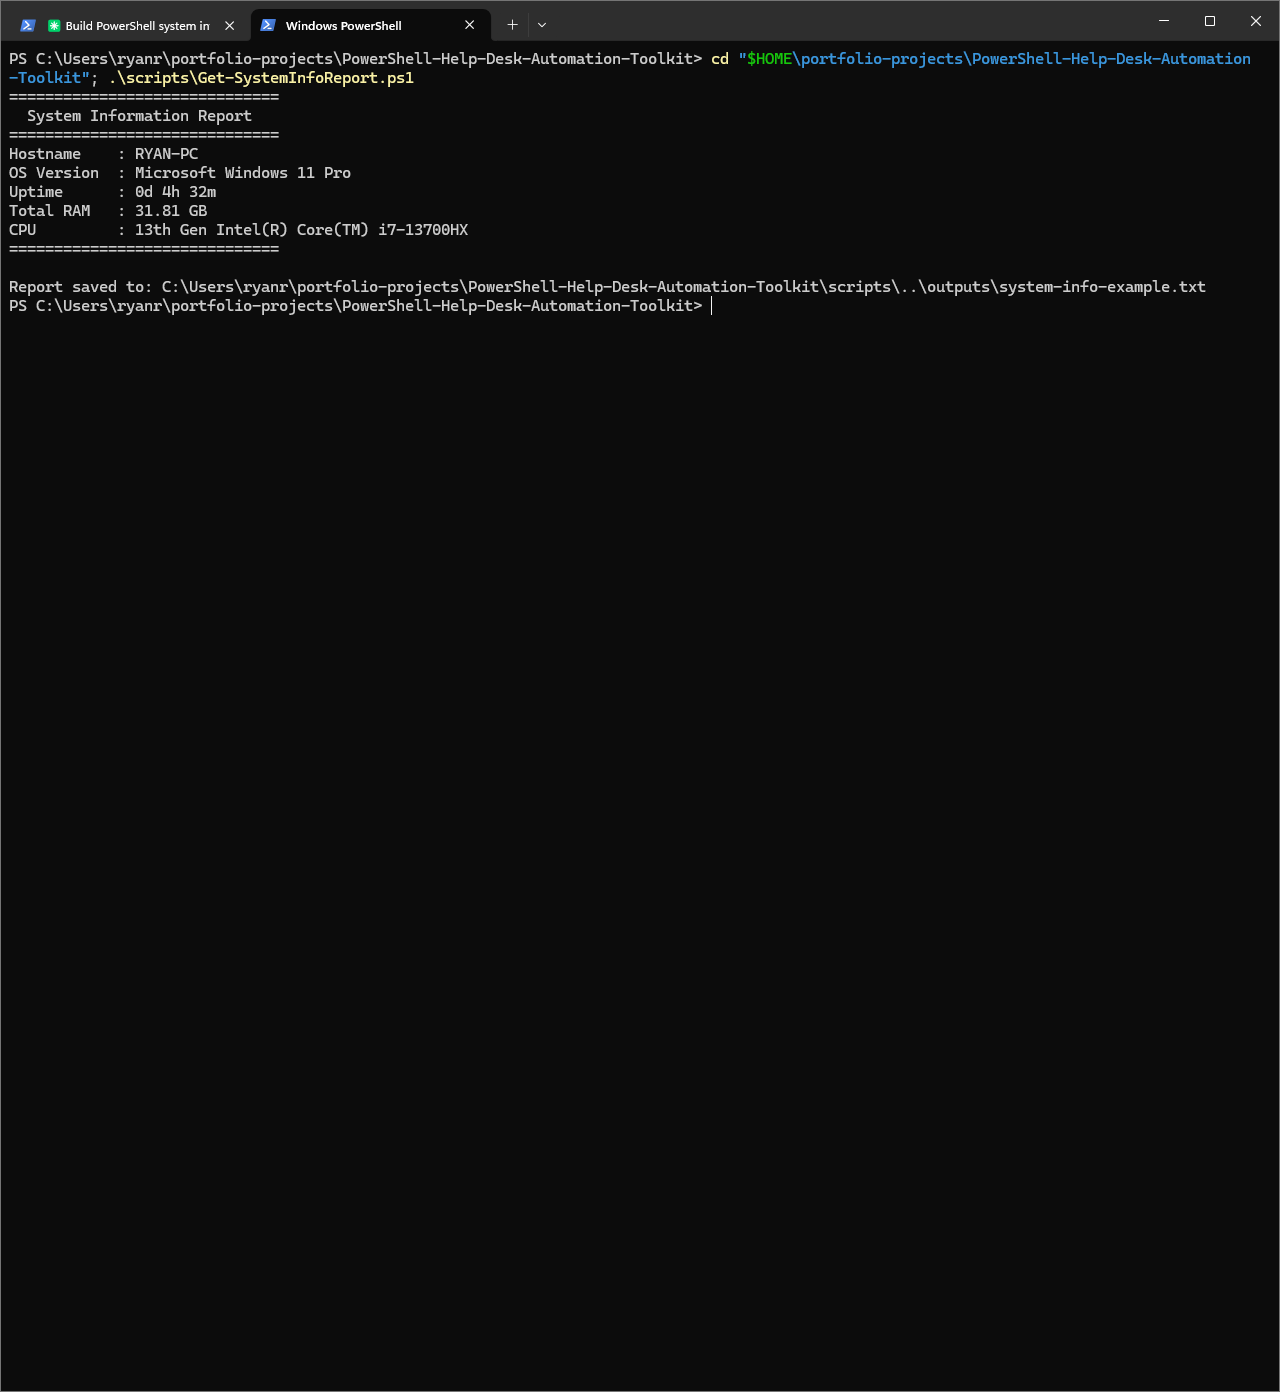
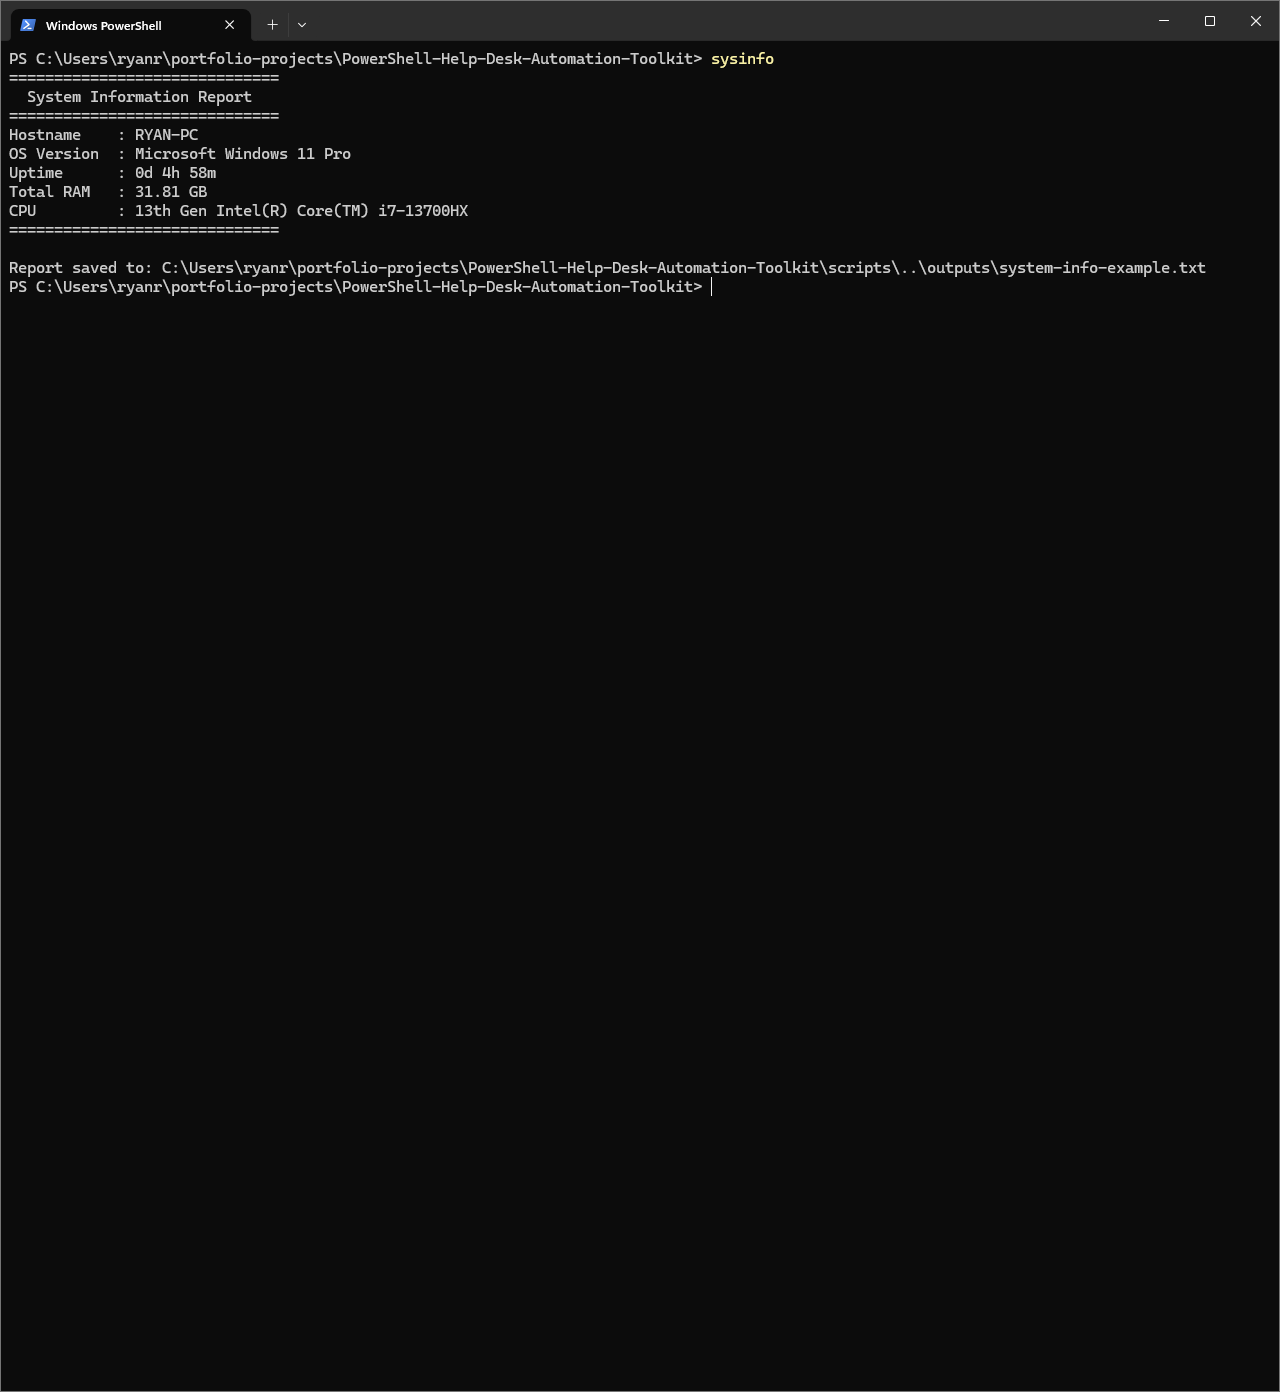
docs: update system info screenshot with sysinfo command

Changed region(s): [[0.0, 0.0, 0.9375, 0.2471], [0.5625, 0.0309, 0.9688, 0.0618]]

diff --git a/README.md b/README.md
@@ -40,7 +40,7 @@ A beginner-friendly PowerShell portfolio project that automates common Windows h
 
 ![System info script output](screenshots/outputs/01-system-info-script-output.png)
 
-Shows the script collecting core endpoint details a help desk technician would gather at the start of a ticket: hostname, OS version, uptime, RAM, and CPU.
+Shows the `sysinfo` command collecting core endpoint details a help desk technician would gather at the start of a ticket: hostname, OS version, uptime, RAM, and CPU.
 
 ### Phase 2 - Disk Space Report
 
@@ -116,3 +116,4 @@ Run `Get-RecentEventLogErrors.ps1` or the `eventerrors` shortcut to review recen
 Core project complete. Optional event log bonus script added. Final review completed after fixing README encoding issues and restoring the full screenshot walkthrough.
 
 Built by Ryan Frechette as a practical PowerShell automation portfolio project for help desk and IT support roles.
+
